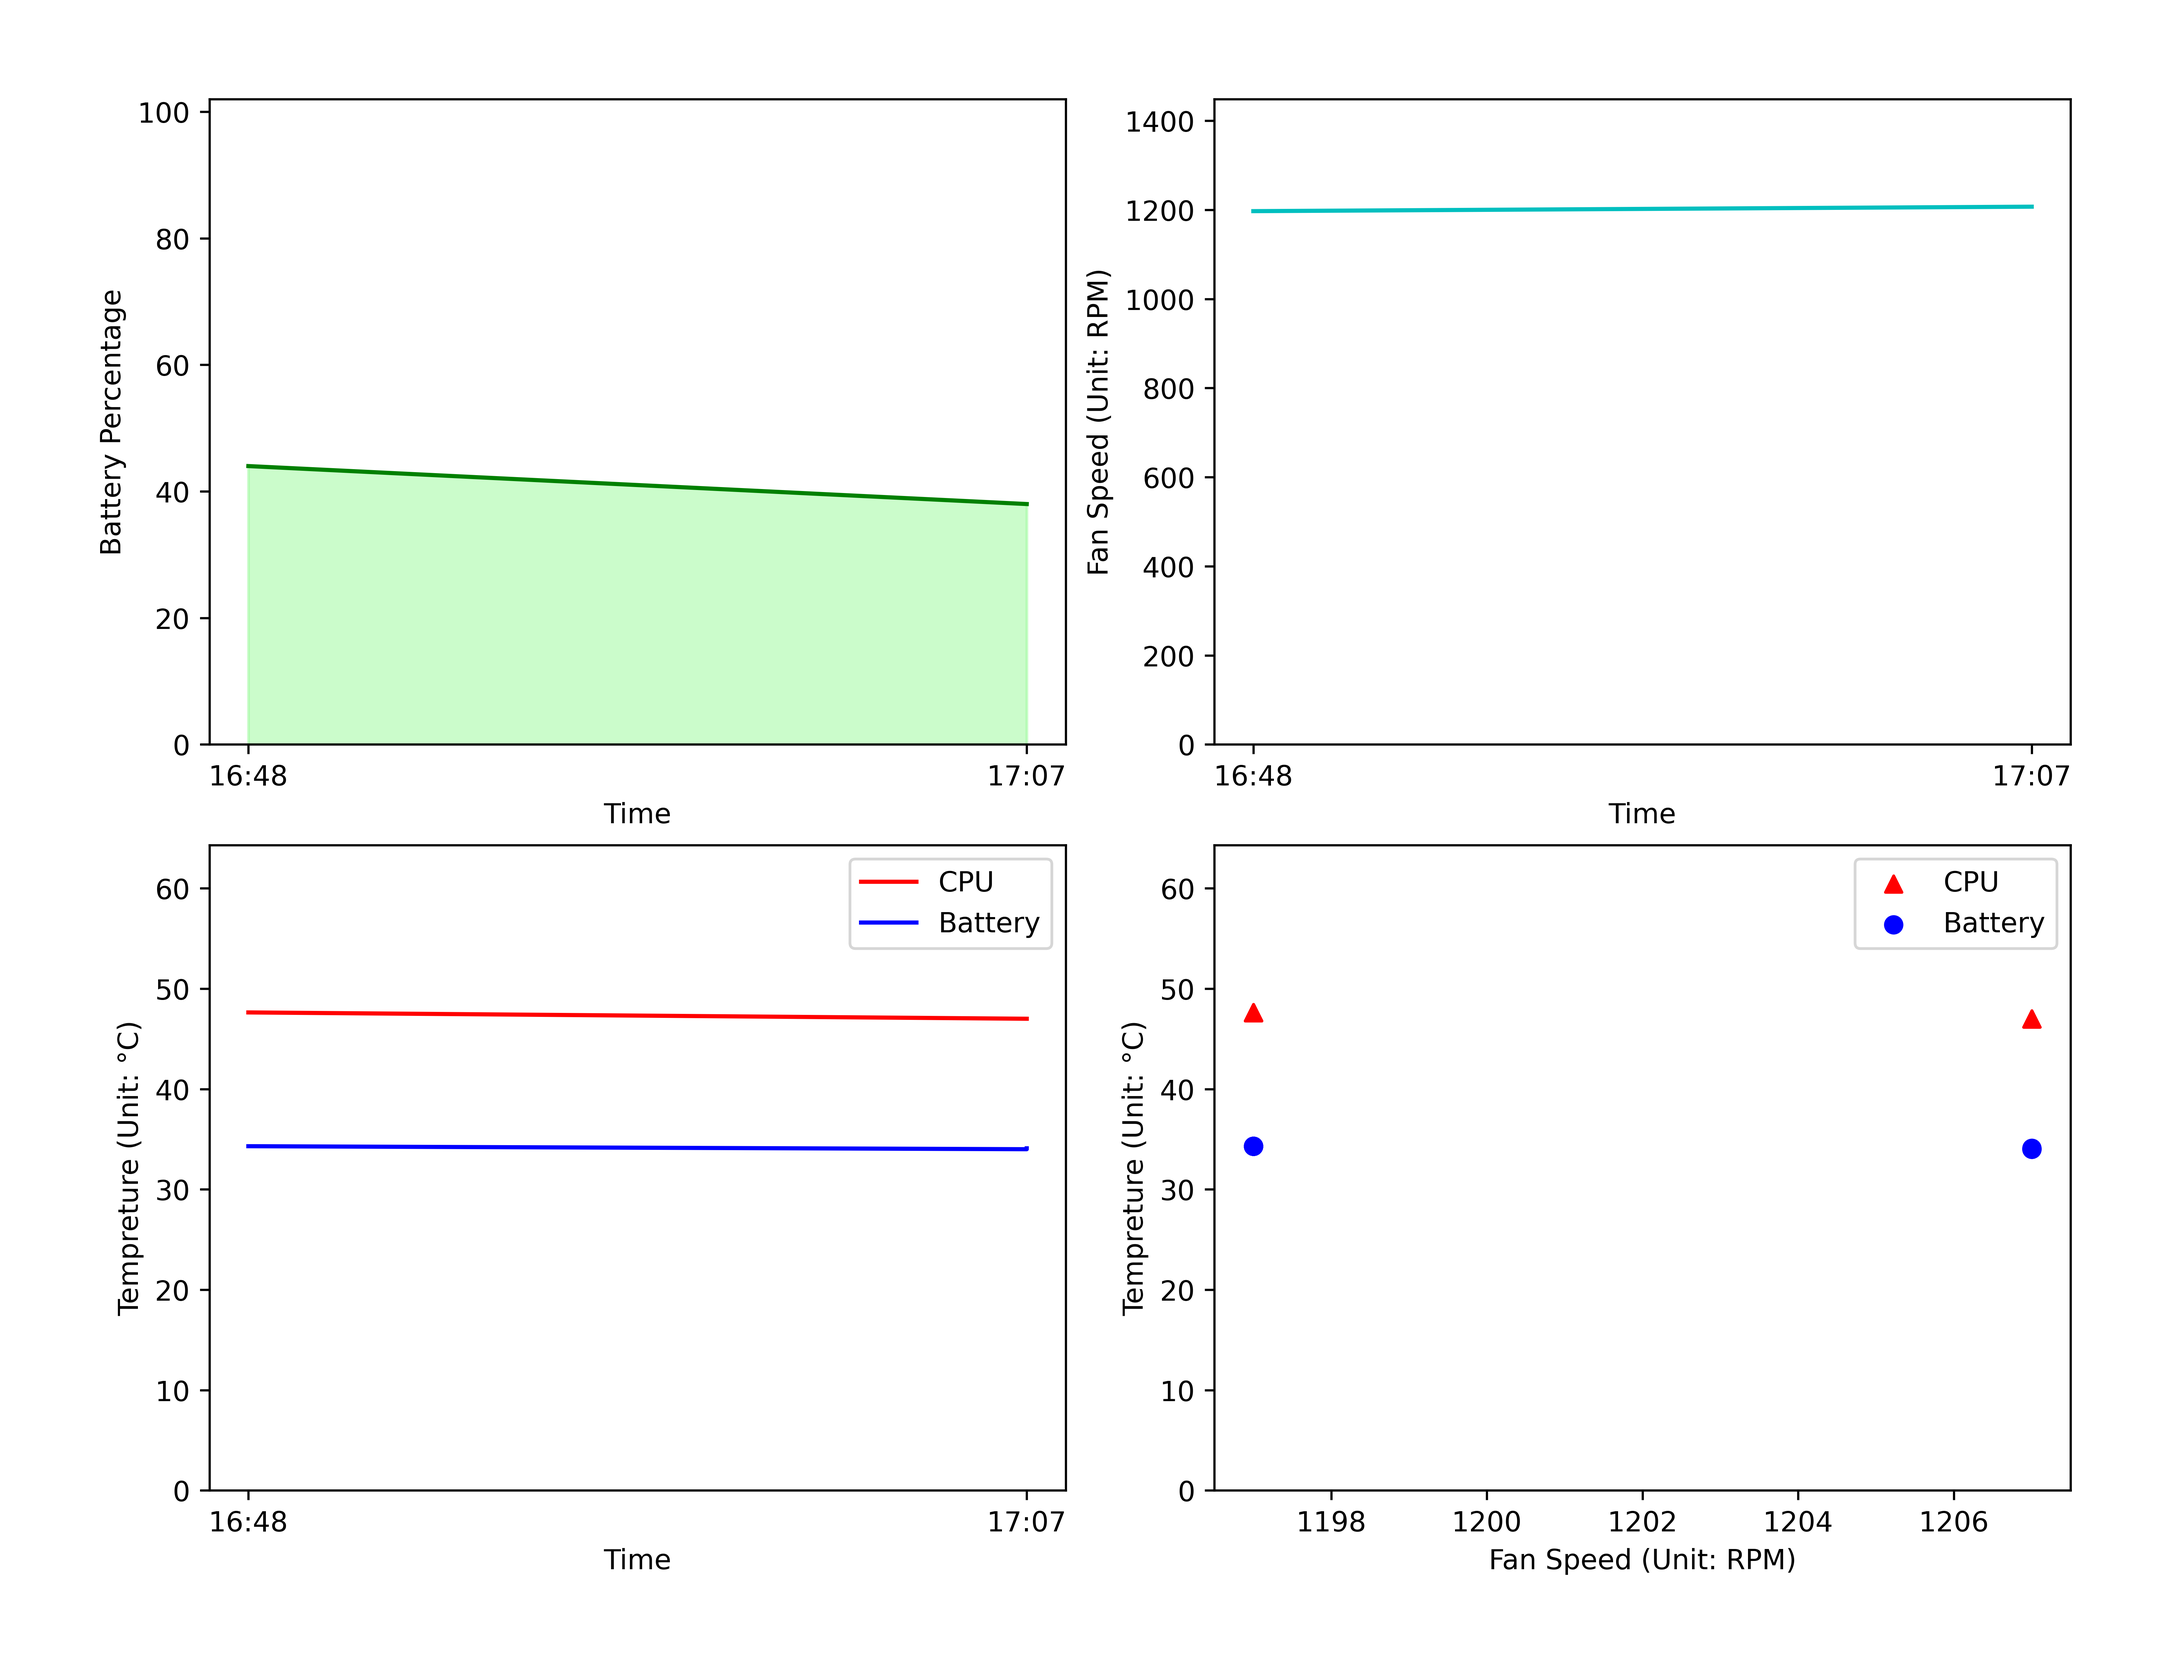
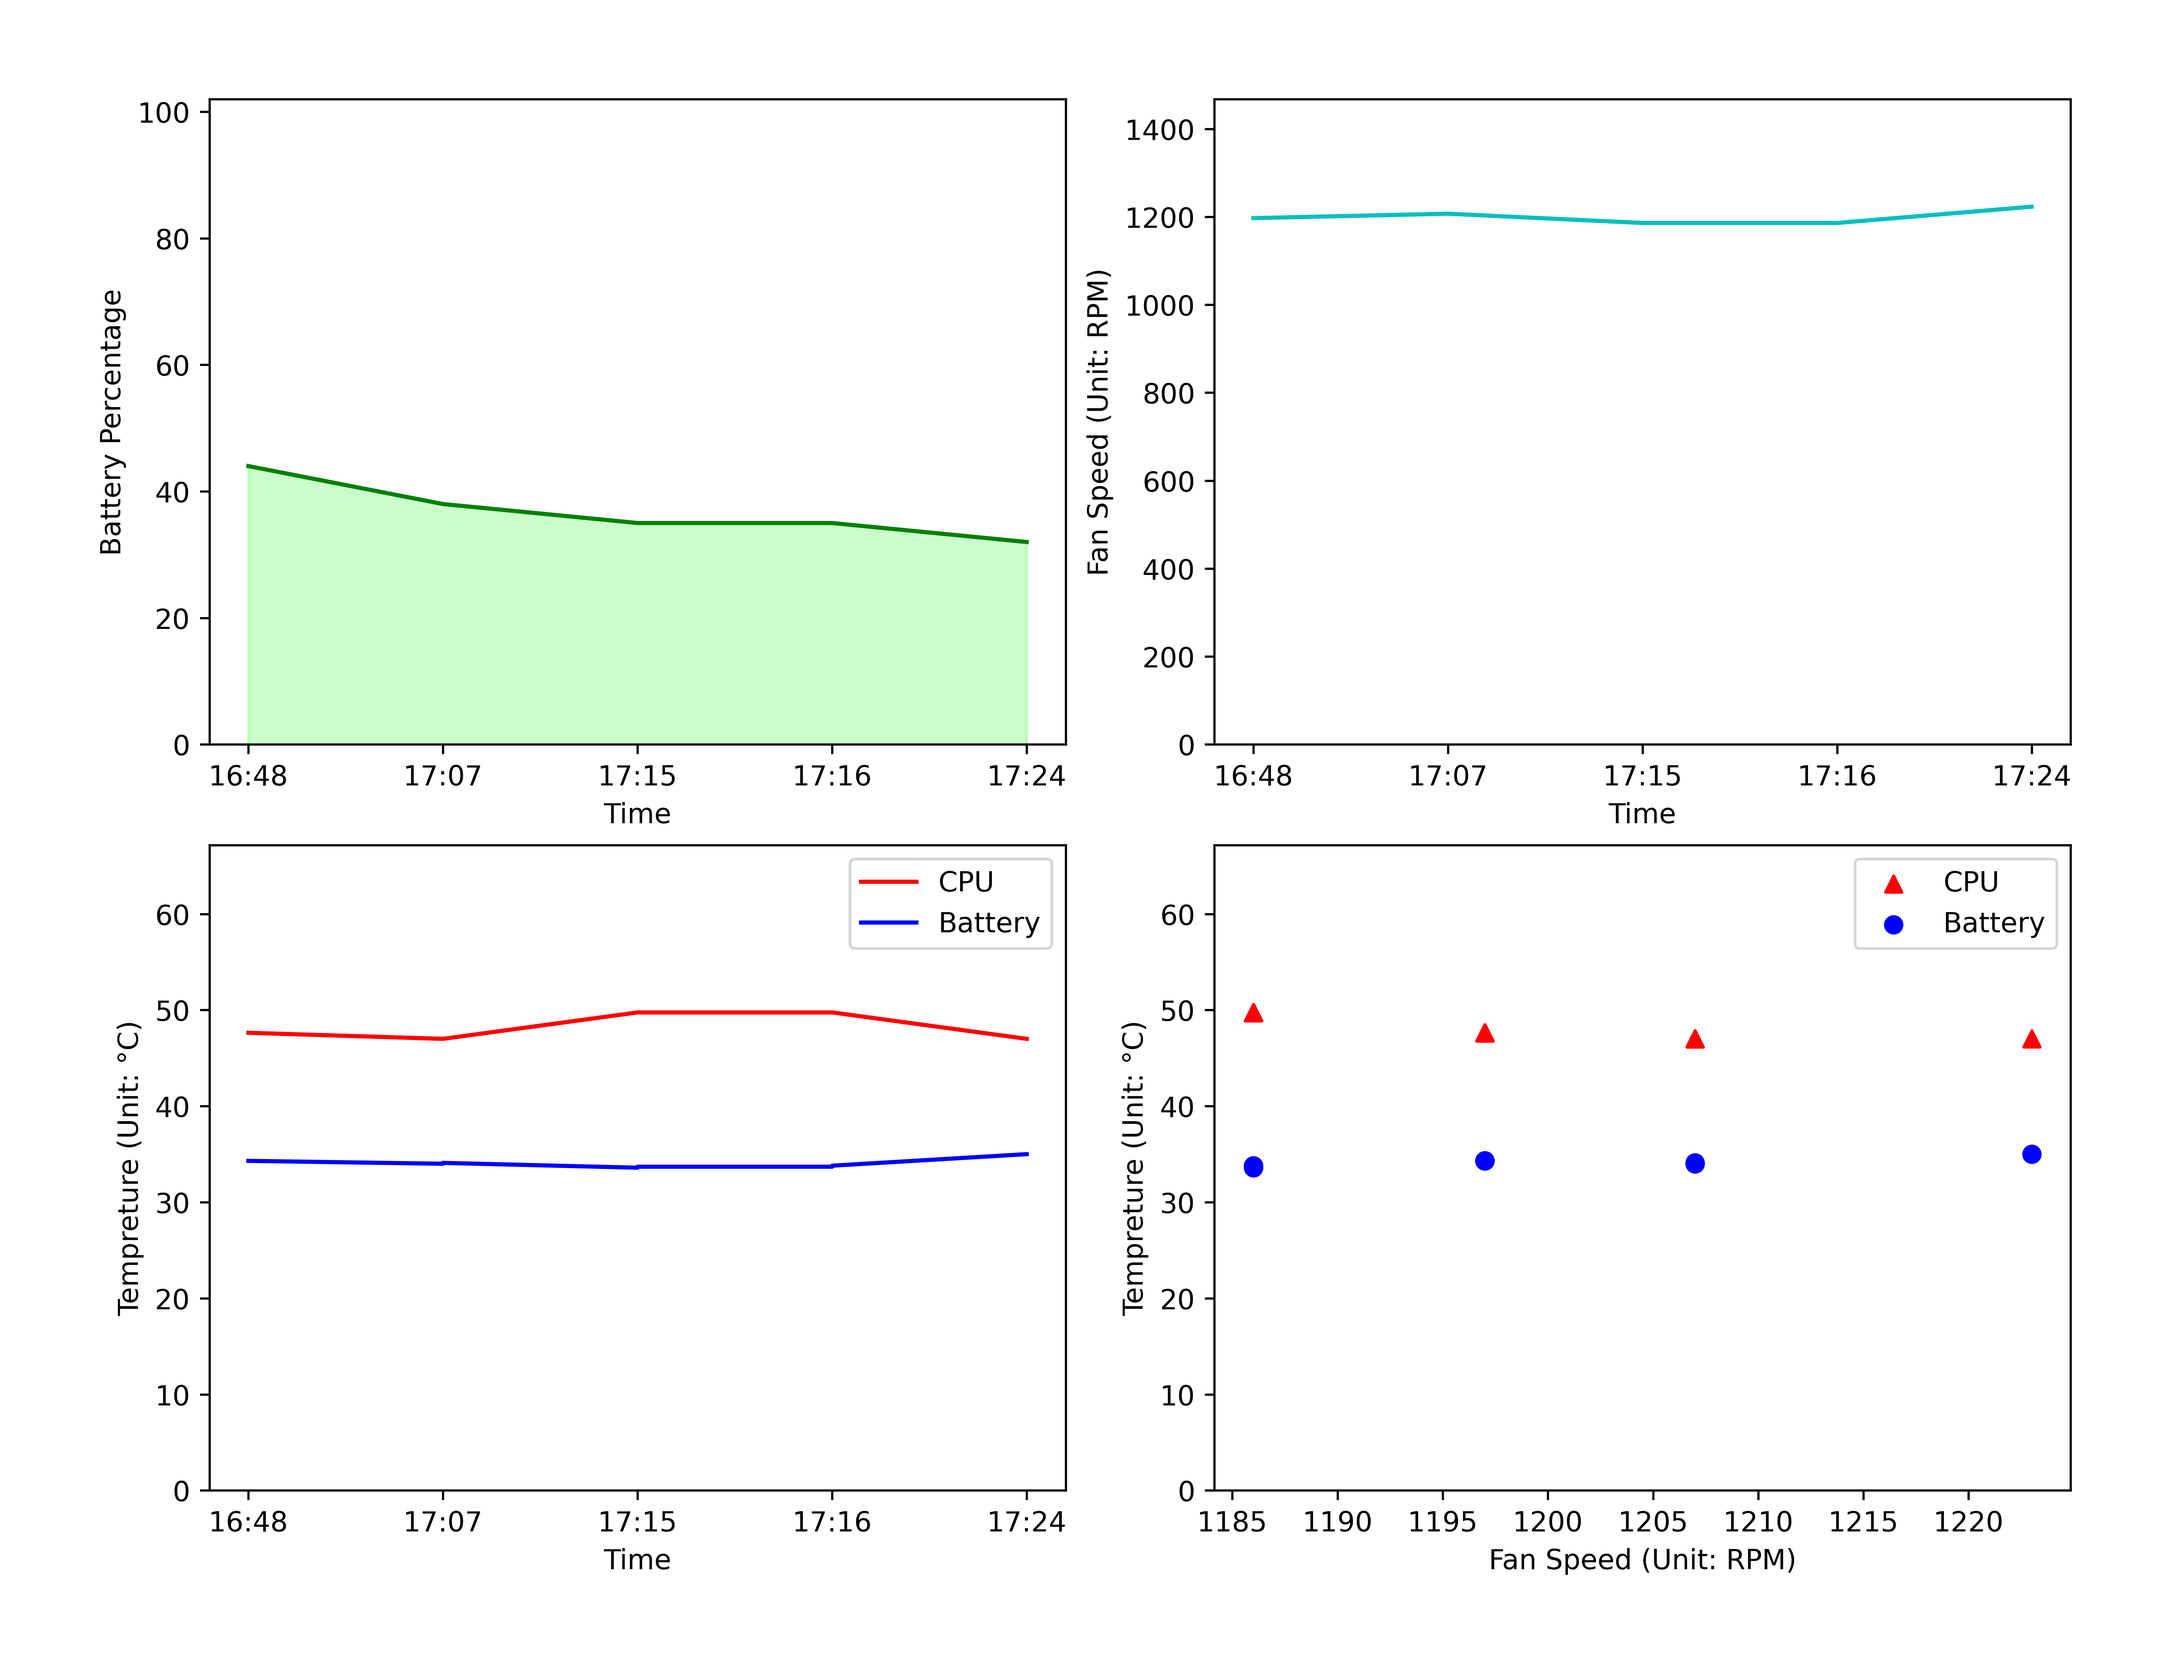
First version done

diff --git a/cpu-temp-tracker.py b/cpu-temp-tracker.py
@@ -29,18 +29,17 @@ GRAPH_PATH = os.path.join(OUT_PATH, "Graph.png")
 print(OUT_PATH)
 
 def get_prev_log():
+    global CPU_TEMP_ARR, BATERRY_TEMP_ARR, FAN_SPEED_ARR, TIME_ARR, BATTERY_PERCENTAGE_ARR
     if not os.path.exists(OUT_PATH):
         os.mkdir(OUT_PATH)
     if os.path.exists(LOG_PATH):
         with open(LOG_PATH) as logfile:
             logdata = json.load(logfile)  
-    global CPU_TEMP_ARR, BATERRY_TEMP_ARR, FAN_SPEED_ARR, TIME_ARR, BATTERY_PERCENTAGE_ARR
-    CPU_TEMP_ARR += logdata["cpu temp"]
-    BATERRY_TEMP_ARR += logdata["battery temp"]
-    FAN_SPEED_ARR += logdata["fan speed"]
-    TIME_ARR += logdata["time"]
-    BATTERY_PERCENTAGE_ARR += logdata["battery percentage"]
-    print(TIME_ARR)
+        CPU_TEMP_ARR += logdata["cpu temp"]
+        BATERRY_TEMP_ARR += logdata["battery temp"]
+        FAN_SPEED_ARR += logdata["fan speed"]
+        TIME_ARR += logdata["time"]
+        BATTERY_PERCENTAGE_ARR += logdata["battery percentage"]
 
 def get_info(file):
     file.seek(0)
@@ -50,6 +49,7 @@ def get_info(file):
     file.write(output_string)
 
 def process_info(file):
+    global CPU_TEMP_ARR, BATERRY_TEMP_ARR, FAN_SPEED_ARR, TIME_ARR, BATTERY_PERCENTAGE_ARR
     file.seek(0)
     filecontent = file.read()
     cpu_temp_stringlist = re.findall(CPU_TEMP_REG, filecontent)
@@ -87,7 +87,6 @@ def check_cpu_temp(cpu_temp):
         os.popen(cmd)
         os.close()
 
-
 def before_exit():
     graph_data()
     store_data()
@@ -106,13 +105,20 @@ def graph_data():
 
 
 def store_data():
+    global CPU_TEMP_ARR, BATERRY_TEMP_ARR, FAN_SPEED_ARR, TIME_ARR, BATTERY_PERCENTAGE_ARR
+    effective_arr_len = min(len(CPU_TEMP_ARR), len(BATERRY_TEMP_ARR), len(FAN_SPEED_ARR), len(TIME_ARR), len(BATTERY_PERCENTAGE_ARR))
+    CPU_TEMP_ARR = CPU_TEMP_ARR[0:effective_arr_len]
+    BATERRY_TEMP_ARR = BATERRY_TEMP_ARR[0:effective_arr_len]
+    FAN_SPEED_ARR = FAN_SPEED_ARR[0:effective_arr_len]
+    TIME_ARR = TIME_ARR[0:effective_arr_len]
+    BATTERY_PERCENTAGE_ARR = BATTERY_PERCENTAGE_ARR[0:effective_arr_len]
     log = {"cpu temp": CPU_TEMP_ARR,
            "battery temp": BATERRY_TEMP_ARR,
            "fan speed": FAN_SPEED_ARR,
            "time": TIME_ARR,
            "battery percentage": BATTERY_PERCENTAGE_ARR}
     with open(LOG_PATH, "w") as logfile:
-        json.dump(log, logfile)
+        json.dump(log, logfile, indent=4)
 
 def graph_battery_vs_time(plt):
     plt.plot(TIME_ARR, BATTERY_PERCENTAGE_ARR, color="g")
@@ -144,8 +150,7 @@ def graph_temp_vs_speed(plt):
     plt.set_ylim(ymin=0, ymax=max(max(CPU_TEMP_ARR), max(BATERRY_TEMP_ARR)) * 1.35)
 
 #TODO: 横轴日期
-#TODO：initialize：mkdir；readfile if existed
-#TODO: 画图before exit: save data
+#TODO: 跨日期
 #TODO：图虚线实线
 #TODO: support devices with 0 or more fans
 if __name__ == '__main__':
@@ -156,4 +161,4 @@ if __name__ == '__main__':
         get_info(temp_log)
         process_info(temp_log)
         temp_log.close()
-        time.sleep(3)
+        time.sleep(100)
